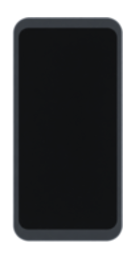
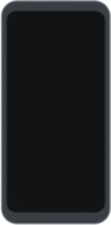
fix(kdeconnect): trim the mockup canvas margins
The mockup PNGs shipped with transparent canvas margins (phone 12px
sides, 17px top, 18px lower edge). Inside the tap-to-ping card those
margins read as an empty clickable band above the artwork and as extra
padding under it. Trim the assets to the artwork and carry the trimmed
sizes in mockupSizes.

diff --git a/plugins/kdeconnect/view_test.go b/plugins/kdeconnect/view_test.go
@@ -432,12 +432,12 @@ func TestDeviceMockupResolvesTypeAssets(t *testing.T) {
 		file string
 		w, h int
 	}{
-		"phone":      {"phone.png", 135, 260},
-		"smartphone": {"phone.png", 135, 260},
-		"tablet":     {"tablet.png", 180, 240},
-		"desktop":    {"desktop.png", 260, 160},
-		"computer":   {"desktop.png", 260, 160},
-		"laptop":     {"laptop.png", 260, 170},
+		"phone":      {"phone.png", 111, 225},
+		"smartphone": {"phone.png", 111, 225},
+		"tablet":     {"tablet.png", 156, 213},
+		"desktop":    {"desktop.png", 210, 136},
+		"computer":   {"desktop.png", 210, 136},
+		"laptop":     {"laptop.png", 231, 146},
 	}
 	for typ, want := range cases {
 		path, w, h, ok := deviceMockup(&Device{Type: typ})
@@ -473,7 +473,7 @@ func TestDeviceCardShowsMockupWhenAssetResolves(t *testing.T) {
 	if mock.Kind != v1.KindImage {
 		t.Fatalf("lead child = %+v, want the mockup image", mock)
 	}
-	if mock.Path != filepath.Join(dir, "phone.png") || mock.ImageW != 135 || mock.ImageH != 260 ||
+	if mock.Path != filepath.Join(dir, "phone.png") || mock.ImageW != 111 || mock.ImageH != 225 ||
 		!mock.Background || mock.Shape != "card" || !mock.CenterX {
 		t.Fatalf("mockup node = %+v", mock)
 	}

diff --git a/plugins/kdeconnect/view.go b/plugins/kdeconnect/view.go
@@ -38,13 +38,14 @@ func deviceIcon(dev *Device) string {
 // ../assets. Tests point it at a temp directory.
 var mockupAssetDir string
 
-// mockupSizes carries the DMS size classes: the canvas each type's mockup
-// was drawn on.
+// mockupSizes carries each type's mockup artwork size, trimmed of the
+// transparent canvas margins the source assets shipped with so the card
+// hugs the artwork.
 var mockupSizes = map[string][2]int{
-	"phone":   {135, 260},
-	"tablet":  {180, 240},
-	"desktop": {260, 160},
-	"laptop":  {260, 170},
+	"phone":   {111, 225},
+	"tablet":  {156, 213},
+	"desktop": {210, 136},
+	"laptop":  {231, 146},
 }
 
 // MockupKind mirrors deviceIcon's type normalisation onto the mockup asset
